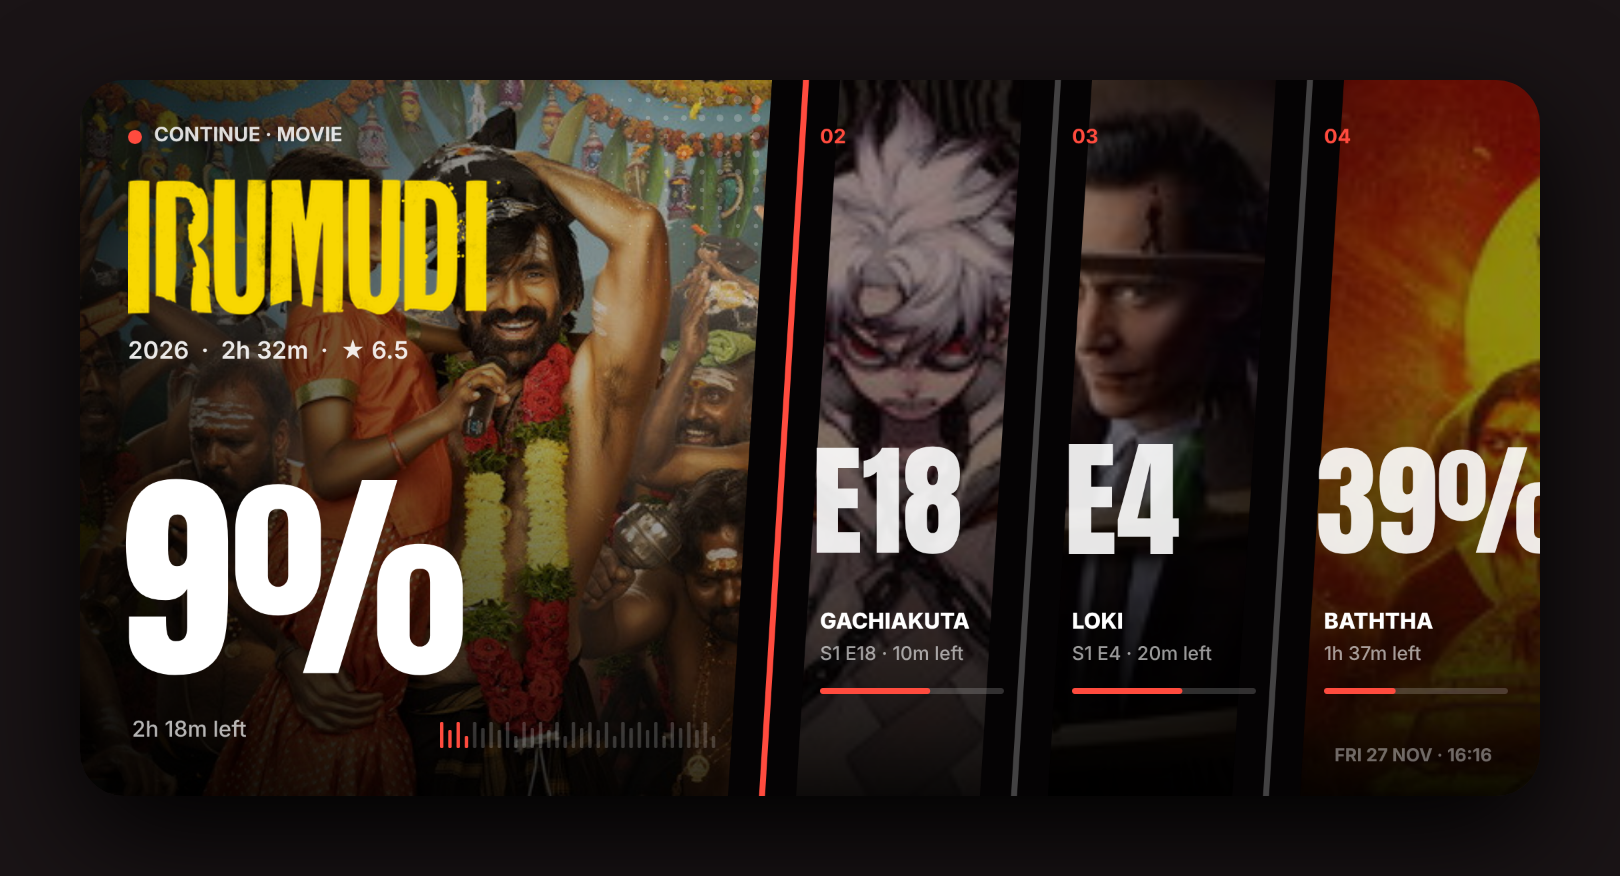
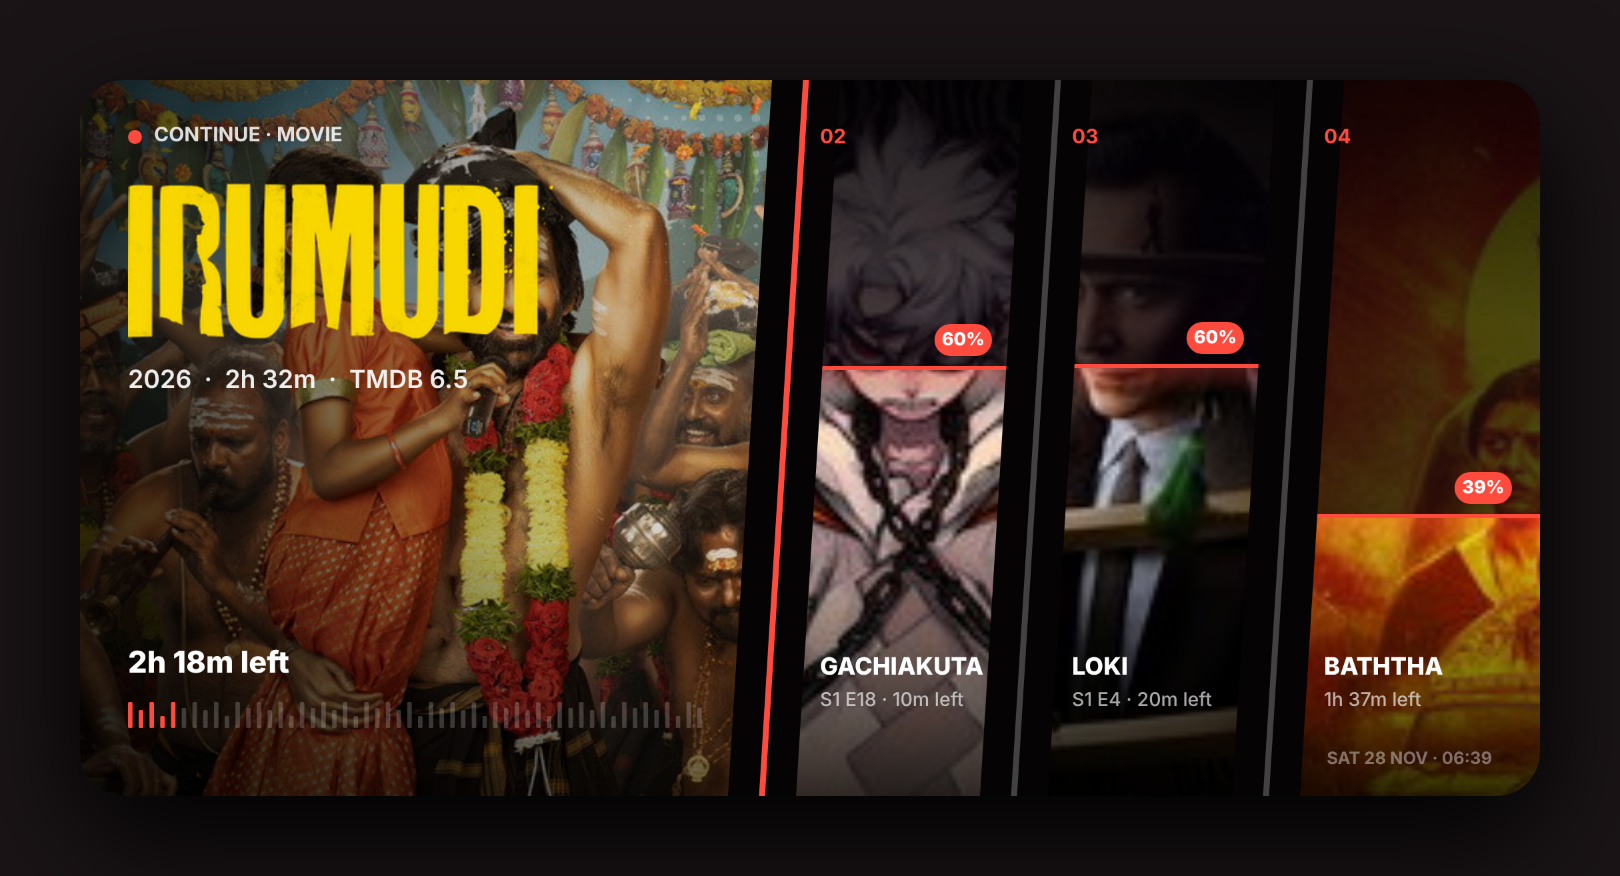
Nuvio: IMDb ratings via Cinemeta; Shatter XL with fill-level progress as Mac default
Claude-Session: https://claude.ai/code/session_01PXGdQy46T6wRnRrF1gL8cR

diff --git a/scriptable/Nuvio Up Next.js b/scriptable/Nuvio Up Next.js
@@ -28,7 +28,7 @@ const ACCENT = "#ff4b3e";
 // "shelf"   = logo + big % on top, a row of posters (current one highlighted) along the bottom
 const LAYOUT = "slash";
 // Extra large (Mac desktop / iPad): "reel" | "shatter" | "radar"
-const XL_LAYOUT = "radar";
+const XL_LAYOUT = "shatter";
 const FAMILY = config.runsInWidget ? config.widgetFamily : (Device.isPhone() ? "medium" : "extraLarge");
 const IS_XL = FAMILY === "extraLarge" || FAMILY === "large";
 
@@ -139,6 +139,17 @@ async function tmdb(path, ttlHours = 12) {
   } catch (e) {}
   return hit ? hit.d : null;
 }
+async function imdbRating(tt, type) {
+  const cache = readLocal("nuvio-imdb-cache.json") || {}, hit = cache[tt];
+  if (hit && Date.now() - hit.t < 24 * 3600e3) return hit.v;
+  try {
+    const j = await new Request(`https://v3-cinemeta.strem.io/meta/${type}/${tt}.json`).loadJSON();
+    const v = j && j.meta && parseFloat(j.meta.imdbRating);
+    cache[tt] = { t: Date.now(), v: v > 0 ? v : null }; writeLocal("nuvio-imdb-cache.json", cache);
+    return v > 0 ? v : null;
+  } catch (e) { return hit ? hit.v : null; }
+}
+const ratingText = (c) => (c.rating ? `${c.ratingSrc || "TMDB"} ${c.rating}` : null);
 const tmdbImg = (size, p) => (p ? `https://image.tmdb.org/t/p/${size}${p}` : null);
 
 // content_id is usually "tmdb:1396"; Stremio-style ids can be "tt0944947".
@@ -214,11 +225,15 @@ async function loadCard(s) {
   const ref = await resolveTmdb(hero.content_id, hero.content_type);
   if (ref) {
     card.tmdb = ref.id;
-    const d = await tmdb(`/${ref.kind}/${ref.id}?append_to_response=images&include_image_language=en,null`);
+    const d = await tmdb(`/${ref.kind}/${ref.id}?append_to_response=images,external_ids&include_image_language=en,null`);
     if (d) {
       card.title = d.name || d.title || card.title;
       card.year = (d.first_air_date || d.release_date || "").slice(0, 4);
-      card.rating = d.vote_average ? Math.round(d.vote_average * 10) / 10 : null;
+      // Rating: IMDb (via Stremio's public Cinemeta catalogue); TMDB's score if IMDb has none yet.
+      const imdbId = d.imdb_id || (d.external_ids && d.external_ids.imdb_id) || (String(hero.content_id).match(/tt\d+/) || [])[0];
+      const imdb = imdbId ? await imdbRating(imdbId, ref.kind === "movie" ? "movie" : "series") : null;
+      if (imdb) { card.rating = imdb; card.ratingSrc = "IMDb"; }
+      else { card.rating = d.vote_average ? Math.round(d.vote_average * 10) / 10 : null; card.ratingSrc = "TMDB"; }
       card.genre = (d.genres && d.genres[0] && d.genres[0].name) || null;
       card.runtime = d.runtime || (d.episode_run_time && d.episode_run_time[0]) || null;
       const logo = pickLogo(d.images);
@@ -257,7 +272,7 @@ async function loadCard(s) {
     card.showSeason = card.season; card.showEpisode = card.finished ? card.episode + 1 : card.episode;
   }
   if (card.tmdb && (IS_XL || (LAYOUT !== "hero" && LAYOUT !== "split"))) {
-    const d = await tmdb(`/${card.type === "movie" ? "movie" : "tv"}/${card.tmdb}?append_to_response=images&include_image_language=en,null`);
+    const d = await tmdb(`/${card.type === "movie" ? "movie" : "tv"}/${card.tmdb}?append_to_response=images,external_ids&include_image_language=en,null`);
     card.poster = d && d.poster_path ? tmdbImg("w342", d.poster_path) : null;
   }
   if (IS_XL || LAYOUT !== "hero") card.rows = await buildRows(progress, history, hero.content_id, done, IS_XL ? 6 : 3);
@@ -293,7 +308,7 @@ async function buildRows(progress, history, heroId, done, max = 3) {
     } else { r.line = "Watched " + ago(it.h.watched_at); r.pct = 1; r.when = it.h.watched_at; }
     const ref = await resolveTmdb(x.content_id, x.content_type);
     if (ref) {
-      const d = await tmdb(`/${ref.kind}/${ref.id}?append_to_response=images&include_image_language=en,null`);
+      const d = await tmdb(`/${ref.kind}/${ref.id}?append_to_response=images,external_ids&include_image_language=en,null`);
       if (d) { r.title = d.name || d.title || r.title; r.poster = d.poster_path ? tmdbImg("w185", d.poster_path) : null; r.backdrop = d.backdrop_path ? tmdbImg("w300", d.backdrop_path) : null; }
     }
     if (!r.title) r.title = String(x.content_id);
@@ -403,7 +418,7 @@ async function drawCard(c) {
     const se = c.showSeason != null ? `S${c.showSeason} · E${c.showEpisode}` : "";
     sub = se + (c.epName ? `  ${c.epName}` : "");
   } else {
-    const parts = [c.year, c.runtime ? hm(c.runtime) : null, c.rating ? `★ ${c.rating}` : null, c.genre].filter(Boolean);
+    const parts = [c.year, c.runtime ? hm(c.runtime) : null, ratingText(c), c.genre].filter(Boolean);
     while (parts.length > 1 && estW(parts.join("  ·  "), 11, 0.55) > TW - 6) parts.pop();   // drop facts, don't cut words
     sub = parts.join("  ·  ");
   }
@@ -506,7 +521,7 @@ async function drawSplit(c) {
   }
   let sub;
   if (c.type === "series") sub = info.ep + (c.epName ? `  ${c.epName}` : "");
-  else { const parts = [c.year, c.runtime ? hm(c.runtime) : null, c.rating ? `★ ${c.rating}` : null]; sub = parts.filter(Boolean).join("  ·  "); }
+  else { const parts = [c.year, c.runtime ? hm(c.runtime) : null, ratingText(c)]; sub = parts.filter(Boolean).join("  ·  "); }
   text(ctx, fit(sub, 10.5, 180, 0.55), X, y, 200, Font.semiboldSystemFont(10.5), col("#ffffff", 0.88));
 
   const BY = H - 20, BW = 174;
@@ -631,7 +646,7 @@ async function drawLogo(ctx, c, x, y, maxW, maxH, fallbackFs) {
 }
 function subLine(c, info) {
   if (c.type === "series") return info.ep + (c.epName ? `  ${c.epName}` : "");
-  return [c.year, c.runtime ? hm(c.runtime) : null, c.rating ? `★ ${c.rating}` : null].filter(Boolean).join("  ·  ");
+  return [c.year, c.runtime ? hm(c.runtime) : null, ratingText(c)].filter(Boolean).join("  ·  ");
 }
 const pctText = (c, info) => (info.upNext ? (info.notOut ? `IN ${info.d}D` : `E${c.showEpisode}`) : `${Math.round(info.pct * 100)}%`);
 const barPct = (c, info) => (info.upNext ? (c.seasonEpisodes ? Math.min(1, (c.seen || []).length / c.seasonEpisodes) : 0) : info.pct);
@@ -836,22 +851,37 @@ async function drawReel(c) {
 }
 
 // ---------------- SHATTER: manga panels split by slanted gutters ----------------
+// Progress is a fill level: the watched part of each panel is lit, the rest is dark,
+// and a red line with a small tag marks where you are. No giant numbers.
 async function drawShatter(c) {
   const ctx = xlCtx("#050304"), info = heroInfo(c); await xlImages(c);
   const rows = (c.rows || []).slice(0, 3);
-  const cuts = [0, 352, 478, 604, XW].slice(0, 2 + rows.length).concat(rows.length < 3 ? [XW] : []);
   const B = [0, 352]; for (let i = 0; i < rows.length; i++) B.push(352 + (i + 1) * ((XW - 352) / rows.length)); B[B.length - 1] = XW;
-  const SL = 22;                                    // slant: gutter goes from (m+SL/2, 0) to (m-SL/2, H)
-  // panel images (rectangles meet at m; the slanted gutter hides the seam)
+  const SL = 22;
   const imgs = [c._bd || c._poster].concat(rows.map((r) => r._bd || r._img));
+  const pcts = [barPct(c, info)].concat(rows.map((r) => r.pct || 0));
+  const levels = [];
   for (let i = 0; i < B.length - 1; i++) {
-    const x0 = B[i], x1 = B[i + 1], img = imgs[i];
+    const x0 = B[i], x1 = B[i + 1], img = imgs[i], p = Math.max(0, Math.min(1, pcts[i]));
     if (img) ctx.drawImageInRect(cropTo(img, x1 - x0, XH, 0.3), new Rect(x0, 0, x1 - x0, XH)); else { ctx.setFillColor(col("#21181a")); ctx.fillRect(new Rect(x0, 0, x1 - x0, XH)); }
-    if (i === 0) { hgrad(ctx, x0, x1, 0, XH, "#000000", 0.8, 0.1); vgrad(ctx, x0, x1, 170, XH, "#000000", 0, 0.75); }
-    else { ctx.setFillColor(col("#0a0506", 0.45)); ctx.fillRect(new Rect(x0, 0, x1 - x0, XH)); vgrad(ctx, x0, x1, 150, XH, "#000000", 0, 0.9); }
+    // fill level: dark above the line, lit below it
+    const ly = i === 0 ? 0 : Math.round(XH * (1 - p)); levels.push(ly);   // main panel uses the barcode instead
+    if (i > 0) { ctx.setFillColor(col("#07030a", 0.72)); ctx.fillRect(new Rect(x0, 0, x1 - x0, ly)); }
+    if (i === 0) { hgrad(ctx, x0, x1, 0, XH, "#000000", 0.75, 0); vgrad(ctx, x0, x1, 230, XH, "#000000", 0, 0.55); }
+    else { vgrad(ctx, x0, x1, 0, 120, "#000000", 0.55, 0); vgrad(ctx, x0, x1, 210, XH, "#000000", 0, 0.8); }
   }
   // screentone dots, top-right of the hero panel
-  for (let y = 10; y < 130; y += 9) for (let x = 230; x < 340; x += 9) { const k = ((x - 230) / 110) * (1 - (y - 10) / 120); if (k <= 0.05) continue; const r = 2.4 * k; const e = new Path(); e.addEllipse(new Rect(x - r, y - r, r * 2, r * 2)); ctx.addPath(e); ctx.setFillColor(col("#ffffff", 0.22)); ctx.fillPath(); }
+  for (let y = 10; y < 130; y += 9) for (let x = 230; x < 340; x += 9) { const k = ((x - 230) / 110) * (1 - (y - 10) / 120); if (k <= 0.05) continue; const r = 2.4 * k; const e = new Path(); e.addEllipse(new Rect(x - r, y - r, r * 2, r * 2)); ctx.addPath(e); ctx.setFillColor(col("#ffffff", 0.2)); ctx.fillPath(); }
+  // level lines + tags (drawn before gutters so their ends tuck under the slant)
+  for (let i = 1; i < B.length - 1; i++) {
+    const p = pcts[i]; if (p <= 0.005 || p >= 0.995) continue;
+    const ly = levels[i], x0 = B[i], x1 = B[i + 1];
+    rrect(ctx, x0, ly - 1, x1 - x0, 2, 0, col(ACCENT));
+    vgrad(ctx, x0, x1, ly, Math.min(XH, ly + 14), ACCENT, 0.28, 0);
+    const tag = `${Math.round(p * 100)}%`, tw = estW(tag, 9, 0.62) + 12;
+    const tx = x1 - (i === B.length - 2 ? 14 : 22) - tw, ty = ly < 30 ? ly + 6 : ly - 22;
+    rrect(ctx, tx, ty, tw, 16, 8, col(ACCENT)); text(ctx, tag, tx, ty + 2, tw, Font.heavySystemFont(9), col("#ffffff"), "center");
+  }
   // gutters
   for (let i = 1; i < B.length - 1; i++) {
     const m = B[i], gw = SL / 2 + 6;
@@ -861,24 +891,24 @@ async function drawShatter(c) {
   // hero panel text
   rrect(ctx, 24, 25, 7, 7, 3.5, col(ACCENT));
   text(ctx, info.kick, 37, 21, 260, Font.boldSystemFont(10), col("#ffffff", 0.85));
-  await drawLogo(ctx, c, 24, 48, 250, 70, 50);
-  text(ctx, fit(subLine(c, info), 12, 280, 0.55), 24, 128, 300, Font.semiboldSystemFont(12), col("#ffffff", 0.9));
-  text(ctx, pctText(c, info), 20, 190, 300, COND(112), col("#ffffff"));
-  text(ctx, leftText(c, info), 26, 318, 200, Font.mediumSystemFont(11), col("#ffffff", 0.7));
-  barcode(ctx, 180, 334, 140, barPct(c, info), 34);
-  // other panels: giant ghost number + title
+  await drawLogo(ctx, c, 24, 50, 260, 80, 54);
+  text(ctx, fit(subLine(c, info), 12.5, 290, 0.55), 24, 142, 310, Font.semiboldSystemFont(12.5), col("#ffffff", 0.92));
+  if (c.type === "series" && info.upNext) {
+    const n = c.seasonEpisodes && c.seasonEpisodes <= 30 ? c.seasonEpisodes : null;
+    text(ctx, info.notOut ? `E${c.showEpisode} in ${info.d} day${info.d === 1 ? "" : "s"}` : `Next: E${c.showEpisode}`, 24, 276, 300, Font.heavySystemFont(15), col("#ffffff"));
+    if (n) { const seen = new Set(c.seen || []), gap = 3, tw = (290 - gap * (n - 1)) / n; for (let i = 1; i <= n; i++) rrect(ctx, 24 + (i - 1) * (tw + gap), 306 - (i === c.showEpisode ? 3 : 0), tw, i === c.showEpisode ? 10 : 5, 1.5, i === c.showEpisode ? col(ACCENT) : seen.has(i) ? col("#ffffff", 0.9) : col("#ffffff", 0.2)); }
+  } else {
+    text(ctx, leftText(c, info) || " ", 24, 282, 300, Font.heavySystemFont(15), col("#ffffff"));
+    barcode(ctx, 24, 324, 290, barPct(c, info), 54);
+  }
+  // other panels: number tag, title + line at the bottom
   rows.forEach((r, i) => {
     const x0 = B[i + 1] + 18, w = B[i + 2] - B[i + 1] - 34;
-    const big = r.type === "movie" ? `${Math.round(r.pct * 100)}%` : (r.line.match(/E(\d+)/) ? "E" + r.line.match(/E(\d+)/)[1] : "✓");
-    const bfs = Math.min(64, Math.floor(w / (big.length * 0.5)));
-    text(ctx, big, x0 - 4, 176 + (64 - bfs) * 0.8, w + 40, COND(bfs), col("#ffffff", 0.9));
-    text(ctx, fit(r.title.toUpperCase(), 11, w, 0.62), x0, 264, w + 40, Font.heavySystemFont(11), col("#ffffff"));
-    text(ctx, fit(r.line, 9.5, w, 0.52), x0, 281, w + 40, Font.mediumSystemFont(9.5), col("#ffffff", 0.6));
-    rrect(ctx, x0, 304, w, 3, 1.5, col("#ffffff", 0.18));
-    if (r.pct > 0) rrect(ctx, x0, 304, Math.max(3, w * r.pct), 3, 1.5, r.pct >= 1 ? col("#ffffff", 0.75) : col(ACCENT));
     text(ctx, String(i + 2).padStart(2, "0"), x0, 22, 40, Font.boldSystemFont(10), col(ACCENT));
+    text(ctx, fit(r.title.toUpperCase(), 12, w, 0.64), x0, 286, w + 40, Font.heavySystemFont(12), col("#ffffff"));
+    text(ctx, fit(r.line, 9.5, w, 0.52), x0, 304, w + 40, Font.mediumSystemFont(9.5), col("#ffffff", 0.65));
   });
-  text(ctx, clock(), XW - 24 - 200, XH - 26, 200, Font.boldSystemFont(9), col("#ffffff", 0.4), "right");
+  text(ctx, clock(), XW - 24 - 200, XH - 24, 200, Font.boldSystemFont(8.5), col("#ffffff", 0.4), "right");
   return ctx.getImage();
 }
 
@@ -1027,7 +1057,7 @@ async function diagnose() {
   if (data && data.history[0]) { const h = data.history[0]; lines.push(`Last watched: ${h.title || h.content_id} S${h.season}E${h.episode}`); }
   if (s && data) await step("Card", async () => { const c = await loadCard(s); return c ? `${c.title} (${c.type}${c.tmdb ? ", TMDB " + c.tmdb : ", no TMDB match"})` : "nothing to show"; });
   lines.push("TMDB key: " + (TMDB_KEY ? "set" : "missing"));
-  const a = new Alert(); a.title = "Connection check (v8)"; a.message = lines.join("\n\n"); a.addAction("Copy"); a.addCancelAction("Close");
+  const a = new Alert(); a.title = "Connection check (v9)"; a.message = lines.join("\n\n"); a.addAction("Copy"); a.addCancelAction("Close");
   if ((await a.presentAlert()) === 0) Pasteboard.copy(lines.join("\n"));
 }
 
@@ -1088,7 +1118,7 @@ const str = (v) => (typeof v === "string" ? v : "");
 async function alertSignIn() {
   for (let tries = 0; tries < 3; tries++) {
     const a = new Alert();
-    a.title = "Sign in to Nuvio (v8)";
+    a.title = "Sign in to Nuvio (v9)";
     a.message = "Your password goes straight to Nuvio and isn't saved. Only a login pass is kept, so the widgets stay signed in.";
     a.addTextField("Email");
     a.addSecureTextField("Password");
@@ -1155,7 +1185,7 @@ async function main() {
   if (!s) { if (!(await signInFlow())) return Script.complete(); await diagnose(); }
   else {
     const a = new Alert();
-    a.title = "Nuvio Up Next (v8)";
+    a.title = "Nuvio Up Next (v9)";
     a.message = `Signed in · profile: ${s.profileName || s.profile || 1}`;
     a.addAction("Preview widget");
     a.addAction("Switch profile");

diff --git a/scriptable/README.md b/scriptable/README.md
@@ -4,7 +4,7 @@ Home-screen and lock-screen widgets for [Scriptable](https://scriptable.app). Pa
 
 | Script (name in Scriptable) | Where | What |
 | --- | --- | --- |
-| `Nuvio Up Next.js` → **Nuvio Up Next** | Home, medium | **New (Nuvio source).** **Slash layout** (default): latest show/movie from Nuvio with TMDB backdrop + official logo, a diagonal red cut, big %, a ticket-style barcode progress bar, and up to 3 other titles stepping down the diagonal. `LAYOUT` at the top also offers split / classic / ticket / shelf / hero. After finishing an episode it flips to *Up next* with season episode ticks, or a countdown if the next one isn't out. Run once in-app to sign in to Nuvio (password not stored; login pass shared via iCloud for the Mac). Tap = opens the title in Nuvio. Previews: `docs/nuvio/medium-*.png`. |
+| `Nuvio Up Next.js` → **Nuvio Up Next** | Home, medium | **New (Nuvio source).** **Slash layout** (default): latest show/movie from Nuvio with TMDB backdrop + official logo, a diagonal red cut, big %, a ticket-style barcode progress bar, and up to 3 other titles stepping down the diagonal. `LAYOUT` at the top also offers split / classic / ticket / shelf / hero. Ratings are IMDb (via Stremio's Cinemeta), falling back to TMDB when a title has no IMDb score yet. **Same script on the Mac as an Extra Large widget** draws the *Shatter* layout (manga panels, fill-level progress); `XL_LAYOUT` also offers radar / reel. Previews: `docs/nuvio/xl-*.png`. After finishing an episode it flips to *Up next* with season episode ticks, or a countdown if the next one isn't out. Run once in-app to sign in to Nuvio (password not stored; login pass shared via iCloud for the Mac). Tap = opens the title in Nuvio. Previews: `docs/nuvio/medium-*.png`. |
 | `Simkl Radar.js` → **Simkl Radar** | Home, medium | Continue-watching card from Simkl. Run it once in-app to link your account (PIN flow); the token is stored in `simkl-token.txt`, which the other Simkl script reuses. |
 | `Simkl Big.js` → **Simkl Big** | Home, large or extra large (Mac desktop / Notification Center via "Use iPhone widgets") | The Mac-style card: backdrop, poster, episode ticks, recently watched (2×2 in large, 4 across in extra large). Tap = resume in Nuvio. Previews: `docs/simkl-big-preview.png`, `docs/simkl-big-wide-preview.png`. |
 | `Manga Big.js` → **Manga Big** | Home, large (Mac via "Use iPhone widgets") | Poster style: Kagurabachi up top (cover art, giant chapter number, 8-week release rhythm), Sakamoto Days + Phantom Busters below. Reads WeebCentral series pages (the RSS lags); unread counts only if AniList is public. Tap = Tachimanga. Preview: `docs/manga-big-preview.png`. |
